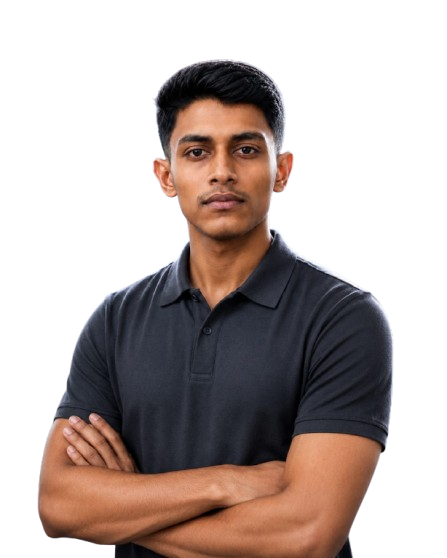
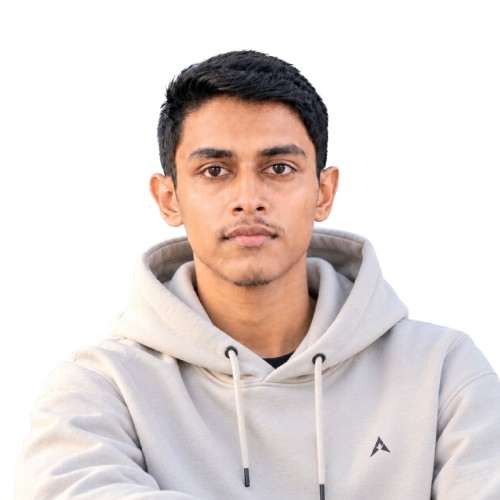
width fixed and photo updated

diff --git a/src/app/components/About.jsx b/src/app/components/About.jsx
@@ -64,13 +64,50 @@ const About = () => {
                          className={` rounded-2xl text-sm sm:text-base leading-relaxed ${isDark ? ' text-slate-300' : ' text-slate-700'
                               }`}
                     >
-                         <p className='text-justify sm:text-left space-y-4'>
-                              Hello! I am <span className='font-bold text-purple-500 dark:text-purple-400'>MD. Jahidul Islam</span>, a dedicated web developer based in Feni, Bangladesh. Currently, I am studying in <span className='text-purple-500 font-bold'>computer science and technology</span> at Feni Polytechnic Institute. My programming journey began with a strong curiosity to understand how software applications and complex web platforms operate seamlessly behind the scenes. What started as basic experimentation with foundational coding concepts quickly turned into a genuine passion for creating scalable, modern web solutions.
+
+                         <p className="text-justify sm:text-left space-y-4">
+                              Hello! I'm{" "}
+                              <span className="font-bold text-purple-500">
+                                   MD. Jahidul Islam
+                              </span>
+                              , a web developer from Feni, Bangladesh, with a background in <span className="font-semibold text-purple-500">
+                                   Computer Science and Technology
+                              </span> from Feni Polytechnic Institute.
+                              My journey into web development started with curiosity about how
+                              websites work, but it gradually grew into a passion for building
+                              useful, interactive, and well-structured web applications.
+
                               <br /><br />
-                              In my daily workflow, I specialize in <span className={`font-semibold ${isDark ? 'text-purple-300' : 'text-purple-600'}`}>Full Stack Web Development</span>—building end-to-end applications that prioritize functionality and performant user experiences. I deeply enjoy diving into algorithmic logic through <span className={`font-semibold ${isDark ? 'text-purple-300' : 'text-purple-600'}`}>Problem Solving</span>, as well as crafting clean, responsive, and aesthetically pleasing <span className={`font-semibold ${isDark ? 'text-purple-300' : 'text-purple-600'}`}>UI/UX Designs</span>.
+
+                              I primarily work with the <span className={`font-semibold ${isDark ? 'text-purple-300' : 'text-purple-600'}`}>
+                                   MERN Stack 
+                              </span> and modern web technologies, including React, Next.js, TypeScript,
+                              Node.js, Express.js, and MongoDB. Through hands-on projects, I've
+                              explored REST APIs, authentication, database integration, and
+                              responsive UI development. I enjoy turning ideas into working
+                              products and learning how different parts of an application fit
+                              together. I'm also exploring Prisma and PostgreSQL to broaden my
+                              backend development skills.
+
                               <br /><br />
-                              As a professional, I define myself as a <span className={`font-semibold ${isDark ? 'text-purple-300' : 'text-purple-600'}`}>curious learner</span>, an effective <span className={`font-semibold ${isDark ? 'text-purple-300' : 'text-purple-600'}`}>team player</span>, a <span className={`font-semibold ${isDark ? 'text-purple-300' : 'text-purple-600'}`}>fast learner</span>, and a highly <span className={`font-semibold ${isDark ? 'text-purple-300' : 'text-purple-600'}`}>self-motivated engineer</span> who thrives on solving real-world technological challenges. When I am away from my code editor, I like to recharge my mind by <span className={`font-semibold ${isDark ? 'text-purple-300' : 'text-purple-600'}`}>reading books</span>, <span className={`font-semibold ${isDark ? 'text-purple-300' : 'text-purple-600'}`}>playing football</span>, and continuously <span className={`font-semibold ${isDark ? 'text-purple-300' : 'text-purple-600'}`}>learning new technologies</span> to stay updated with industry trends.
+
+                              Beyond writing code, I believe in{" "}
+                              <span className={`font-semibold ${isDark ? 'text-purple-300' : 'text-purple-600'}`}>
+                                   learning by building
+                              </span>
+                              , taking responsibility, and improving through feedback and mistakes.
+                              I enjoy solving technical challenges, collaborating with others, and
+                              finding practical solutions rather than simply making things work on
+                              the surface. Currently, I'm continuing to strengthen my development
+                              skills through hands-on work, web development training, and personal
+                              projects, with the goal of becoming a{" "}
+                              <span className={`font-semibold ${isDark ? 'text-purple-300' : 'text-purple-600'}`}>
+                                   well-rounded Full-Stack Developer
+                              </span>
+                              . Outside coding, I enjoy playing football or Cricket, spending time with friends,
+                              and learning English to improve my communication skills.
                          </p>
+
                     </motion.div>
 
                     {/* 2-Column Split Information Card */}

diff --git a/src/app/components/Hero.jsx b/src/app/components/Hero.jsx
@@ -10,10 +10,10 @@ import { useTheme } from '../ThemeContext';
 import Link from 'next/link';
 
 const roles = [
-     "Full Stack Developer",
+     "MERN Stack Developer",
      "React Specialist",
      "Next.js Developer",
-     "Node.js Developer"
+     "UI specialist"
 ];
 
 const Hero = () => {
@@ -69,6 +69,8 @@ const Hero = () => {
           { icon: <FaFacebook />, link: "https://www.facebook.com/share/19GwUyCVyF/" },
      ];
 
+     const developerImage = isDark ? "/developer-dark.png" : "/developer.png";
+
      return (
           <section
                id='home'
@@ -78,7 +80,7 @@ const Hero = () => {
                <div className='absolute top-12 left-10 w-96 h-96 bg-purple-500/15 rounded-full blur-[130px] pointer-events-none z-0'></div>
                <div className='absolute bottom-10 right-10 w-96 h-96 bg-indigo-500/15 rounded-full blur-[130px] pointer-events-none z-0'></div>
 
-               <div className='max-w-7xl mx-auto flex flex-col-reverse lg:flex-row gap-12 lg:gap-10 px-6 lg:px-12 justify-between items-center pt-8 pb-16 lg:py-20 relative z-10'>
+               <div className='max-w-7xl mx-auto flex flex-col-reverse lg:flex-row gap-12 lg:gap-10 px-6 justify-between items-center pt-8 pb-16 lg:py-20 relative z-10'>
 
                     {/* Left Content */}
                     <motion.div
@@ -180,7 +182,7 @@ const Hero = () => {
                          {/* Ambient Glow */}
                          <div className='absolute inset-0 bg-gradient-to-tr from-purple-500/20 to-indigo-500/20 rounded-full blur-[70px] group-hover:from-purple-500/30 transition-all duration-700 pointer-events-none'></div>
 
-                         {/* 1. Geometric Outer Rotator (Rotated Rounded Square) */}
+                         {/* 1. Geometric Outer Rotator */}
                          <motion.div
                               className={`absolute w-72 sm:w-88 lg:w-[410px] h-72 sm:h-88 lg:h-[410px] rounded-[45px] sm:rounded-[55px] border border-dashed transition-colors duration-500 pointer-events-none ${isDark ? 'border-purple-500/25' : 'border-purple-400/35'
                                    }`}
@@ -188,7 +190,7 @@ const Hero = () => {
                               transition={{ duration: 45, repeat: Infinity, ease: "linear" }}
                          />
 
-                         {/* 2. Geometric Hexagon/Diamond Decorative Accent (Top Right) */}
+                         {/* 2. Geometric Hexagon/Diamond Decorative Accent */}
                          <motion.div
                               className={`absolute -top-3 -right-3 w-8 h-8 rounded-lg border rotate-45 pointer-events-none backdrop-blur-md hidden sm:block ${isDark ? 'border-purple-400/30 bg-purple-900/20' : 'border-purple-300 bg-purple-100/50'
                                    }`}
@@ -196,7 +198,7 @@ const Hero = () => {
                               transition={{ duration: 5, repeat: Infinity, ease: "easeInOut" }}
                          />
 
-                         {/* 3. Main Modern Squircle Frame (Rounded Polygon Look) */}
+                         {/* 3. Main Modern Squircle Frame */}
                          <motion.div
                               className="relative w-64 sm:w-80 lg:w-[380px] h-64 sm:h-80 lg:h-[380px] rounded-[40px] sm:rounded-[50px] p-[3px] bg-gradient-to-br from-purple-200 via-indigo-500/40 to-pink-500/30 shadow-[0_0_50px_rgba(139,92,246,0.15)] overflow-hidden"
                               animate={{ y: [0, -8, 0] }}
@@ -206,12 +208,14 @@ const Hero = () => {
 
                                    <div className='absolute inset-0 bg-[radial-gradient(circle_at_50%_120%,rgba(139,92,246,0.2)_0%,transparent_60%)]'></div>
 
+                                   {/* Theme অনু-যায়ী ডাইনামিক ছবি রেন্ডার করা */}
                                    <Image
-                                        src="/developer.png"
+                                        key={developerImage} // থিম পরিবর্তনের সময় স্মুথ ট্রানজিশনের জন্য
+                                        src={developerImage}
                                         alt="Mohammed Jahidul Islam"
                                         height={500}
                                         width={500}
-                                        className="object-cover translate-y-2  origin-bottom drop-shadow-[0_0_25px_rgba(168,85,247,0.45)]"
+                                        className="object-cover origin-bottom drop-shadow-[0_0_25px_rgba(168,85,247,0.45)] transition-opacity duration-300"
                                         priority
                                    />
                               </div>

diff --git a/src/app/components/Blog.jsx b/src/app/components/Blog.jsx
@@ -1,10 +1,9 @@
 'use client'
 import React from 'react';
-import Image from 'next/image';
 import Link from 'next/link';
 import { motion } from 'framer-motion';
 import { useTheme } from '../ThemeContext';
-import { FaArrowRight, FaCalendarAlt } from 'react-icons/fa';
+import { FaArrowRight} from 'react-icons/fa';
 
 const Blog = () => {
      const { isDark } = useTheme();
@@ -23,7 +22,7 @@ const Blog = () => {
                className={`w-full py-16 lg:py-24 transition-colors duration-500 ${isDark ? 'bg-slate-950 text-white' : 'bg-slate-50 text-slate-900'
                     }`}
           >
-               <div className="max-w-5xl mx-auto px-6 lg:px-12">
+               <div className="max-w-7xl mx-auto px-6 ">
 
                     {/* Section Header */}
                     <div className='text-center mb-12 space-y-3'>
@@ -47,14 +46,14 @@ const Blog = () => {
                                    whileInView={{ opacity: 1, y: 0 }}
                                    viewport={{ once: true }}
                                    transition={{ duration: 0.5 }}
-                                   className={`group flex flex-col md:flex-row items-stretch p-3 md:p-4 rounded-2xl overflow-hidden border transition-all duration-300 hover:shadow-2xl w-full ${isDark
+                                   className={`group flex flex-col md:flex-row  p-3 md:p-4 rounded-2xl overflow-hidden border transition-all duration-300 hover:shadow-2xl w-full ${isDark
                                         ? 'bg-slate-900/60 border-slate-800 hover:border-purple-500/50'
                                         : 'bg-white border-slate-200 hover:border-purple-300 shadow-lg'
                                         }`}
                               >
 
                                    {/* Content: stacks under image on mobile, sits beside it from md up */}
-                                   <div className="w-full md:w-[64%] p-4 md:p-6 flex flex-col justify-between gap-4">
+                                   <div className="w-full p-4 md:p-6 flex flex-col justify-between gap-4">
                                         <div className="space-y-3">
                                              <h3 className={`text-lg lg:text-2xl font-bold leading-snug transition-colors duration-300 group-hover:text-purple-400 ${isDark ? 'text-slate-100' : 'text-slate-800'
                                                   }`}>
@@ -62,7 +61,7 @@ const Blog = () => {
                                              </h3>
                                              <p className={`text-xs md:text-sm leading-relaxed line-clamp-3 md:line-clamp-none ${isDark ? 'text-slate-400' : 'text-slate-600'
                                                   }`}>
-                                                  {blog.description}
+                                                  {blog.description}....
                                              </p>
                                         </div>
 

diff --git a/src/app/blog/[id]/page.jsx b/src/app/blog/[id]/page.jsx
@@ -13,7 +13,7 @@ const BlogDetails = () => {
 
      const blogData = {
           title: "Have You Ever Wondered How the Internet Really Works?",
-          author: "Jahid",
+          author: "MD. Jahidul Islam",
           date: "Jul 25, 2026",
           image: "/blog.png",
      };
@@ -21,7 +21,7 @@ const BlogDetails = () => {
      return (
           <main className={`min-h-screen py-12 lg:py-20 transition-colors duration-500 ${isDark ? 'bg-slate-950 text-white' : 'bg-slate-50 text-slate-900'
                }`}>
-               <div className="mx-auto px-6" style={{ maxWidth: '64rem' }}>
+               <div className="max-w-7xl mx-auto px-6">
 
                     {/* Back Button */}
                     <Link
@@ -47,7 +47,7 @@ const BlogDetails = () => {
                     </div>
 
                     {/* Cover Image Container */}
-                    <div className={`w-full rounded-2xl overflow-hidden mb-10 shadow-xl border flex justify-center items-center ${isDark ? 'bg-slate-900/50 border-slate-800' : 'bg-slate-100 border-slate-200'
+                    <div className={`w-full sm:display-none rounded-2xl overflow-hidden mb-10 shadow-xl border flex justify-center items-center ${isDark ? 'bg-slate-900/50 border-slate-800' : 'bg-slate-100 border-slate-200'
                          }`}>
                          <Image
                               src={blogData.image}
@@ -55,7 +55,7 @@ const BlogDetails = () => {
                               width={800}
                               height={450}
                               priority
-                              className="w-full h-35 object-cover rounded-2xl"
+                              className="w-full h-full object-cover rounded-2xl"
                          />
                     </div>
 

diff --git a/src/app/components/Certificates.jsx b/src/app/components/Certificates.jsx
@@ -27,9 +27,9 @@ const Certificates = () => {
                image: "/certificate.png",
                skills: ["React.js", "Next.js", "Node.js", "MongoDB", "Express.js", "Tailwind CSS"],
                highlights: [
-                    "Mastered Full-stack MERN Development",
+                    "Mastered MERN Stack Web Development",
                     "Built 12+ Industry Standard Web Applications",
-                    "Select for SCIC"
+                    "Selected for SCIC"
                ]
           }
      ];
@@ -41,7 +41,7 @@ const Certificates = () => {
      return (
           <section
                id="certificates"
-               className={`w-full px-4 lg:px-6 py-16 sm:py-24 transition-colors duration-300 relative overflow-hidden ${isDark ? "bg-slate-950 text-slate-100" : "bg-slate-50 text-slate-900"
+               className={`w-full px-6 lg:px-12 py-16 sm:py-24 transition-colors duration-300 relative overflow-hidden ${isDark ? "bg-slate-950 text-slate-100" : "bg-slate-50 text-slate-900"
                     }`}
           >
                <div
@@ -49,7 +49,7 @@ const Certificates = () => {
                          }`}
                />
 
-               <div className="max-w-6xl mx-auto relative z-10">
+               <div className="max-w-7xl px-6 mx-auto relative z-10">
                     <motion.div
                          initial={{ opacity: 0, y: 15 }}
                          whileInView={{ opacity: 1, y: 0 }}

diff --git a/src/app/components/Connect.jsx b/src/app/components/Connect.jsx
@@ -61,7 +61,7 @@ const Connect = () => {
                <div className={`absolute bottom-[-10%] left-[-10%] w-[500px] h-[500px] rounded-full blur-[150px] pointer-events-none ${isDark ? 'bg-purple-900/20' : 'bg-purple-200/50'
                     }`} />
 
-               <div className="max-w-7xl mx-auto px-6 lg:px-12 relative z-10">
+               <div className="max-w-7xl mx-auto px-6 relative z-10">
 
                     {/* Section Header */}
                     <div className='text-left lg:text-center mb-12 lg:mb-16 space-y-3'>
@@ -82,7 +82,7 @@ const Connect = () => {
                          whileInView={{ opacity: 1, y: 0 }}
                          viewport={{ once: true }}
                          transition={{ duration: 0.6, ease: "easeOut" }}
-                         className={`max-w-3xl mx-auto group relative p-[1.5px] rounded-2xl overflow-hidden transition-all duration-300 shadow-xl ${isDark ? 'bg-slate-900/60' : 'bg-white'
+                         className={`max-w-7xl mx-auto group relative p-[1.5px] rounded-2xl overflow-hidden transition-all duration-300 shadow-xl ${isDark ? 'bg-slate-900/60' : 'bg-white'
                               }`}
                     >
                          {/* ROTATING BORDER LIGHT (Theme Dynamic) */}

diff --git a/src/app/components/Tech.jsx b/src/app/components/Tech.jsx
@@ -6,7 +6,7 @@ import { DiMongodb, DiCss3, DiHtml5 } from 'react-icons/di';
 import { FaReact, FaNodeJs, FaGitAlt, FaGithub } from 'react-icons/fa';
 import { IoLogoJavascript } from 'react-icons/io5';
 import { RiNextjsFill, RiTailwindCssFill } from 'react-icons/ri';
-import { SiExpress, SiTypescript, SiPostman, SiFigma } from 'react-icons/si';
+import { SiExpress, SiTypescript, SiFigma } from 'react-icons/si';
 import { VscCode } from 'react-icons/vsc';
 
 const Tech = () => {
@@ -43,7 +43,7 @@ const Tech = () => {
      return (
           <section id='skills' className={`w-full py-16 lg:py-24 relative overflow-hidden transition-colors duration-300 ${isDark ? 'bg-slate-950 text-white' : 'bg-slate-50 text-slate-900'
                }`}>
-               <div className='max-w-6xl mx-auto px-6 lg:px-12 relative z-10'>
+               <div className='max-w-7xl mx-auto px-6 relative z-10'>
 
                     {/* Ambient Background Glow */}
                     <div className={`absolute top-1/2 left-1/2 -translate-x-1/2 -translate-y-1/2 w-96 h-96 rounded-full blur-[150px] pointer-events-none ${isDark ? 'bg-purple-500/10' : 'bg-purple-300/30'

diff --git a/src/app/components/Education.jsx b/src/app/components/Education.jsx
@@ -54,7 +54,7 @@ const EducationTimeline = () => {
      return (
           <section id='education' className={`w-full py-16 lg:py-24 relative overflow-hidden transition-colors duration-300 ${isDark ? 'bg-slate-950 text-white' : 'bg-slate-50 text-slate-900'
                }`}>
-               <div className='max-w-6xl mx-auto px-6 lg:px-12 relative z-10'>
+               <div className='max-w-7xl mx-auto px-6 relative z-10'>
 
                     {/* Ambient Background Glow */}
                     <div className={`absolute top-1/3 right-0 w-80 h-80 rounded-full blur-[130px] pointer-events-none ${isDark ? 'bg-purple-500/10' : 'bg-purple-300/20'

diff --git a/src/app/project/[id]/page.jsx b/src/app/project/[id]/page.jsx
@@ -72,7 +72,7 @@ const ProjectDetails = () => {
 
      return (
           <main className={`min-h-screen py-12 lg:py-20 transition-colors duration-300 ${isDark ? 'bg-slate-950 text-white' : 'bg-slate-50 text-slate-900'}`}>
-               <div className='max-w-5xl mx-auto px-6 lg:px-12 relative z-10'>
+               <div className='max-w-7xl mx-auto px-6 relative z-10'>
 
                     {/* Ambient Glow */}
                     <div className={`absolute top-20 left-1/2 -translate-x-1/2 w-96 h-96 rounded-full blur-[160px] pointer-events-none ${isDark ? 'bg-purple-500/10' : 'bg-purple-300/30'}`} />

diff --git a/src/app/components/ProjectClientSection.jsx b/src/app/components/ProjectClientSection.jsx
@@ -20,7 +20,7 @@ const ProjectContent = ({ projects }) => {
 
                
 
-               <div className='max-w-7xl mx-auto px-6 lg:px-12 relative z-10'>
+               <div className='max-w-7xl mx-auto px-6 relative z-10'>
 
                     {/* Section Header */}
                     <div className='mb-12 lg:mb-16 text-left lg:text-center space-y-3'>
